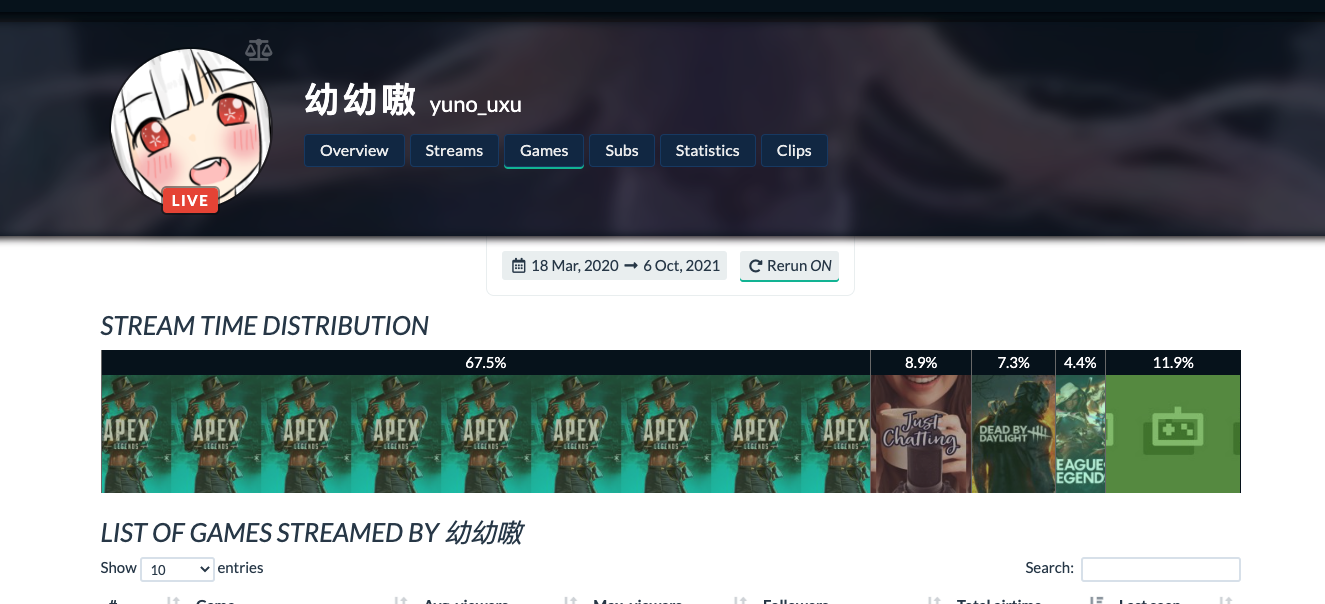
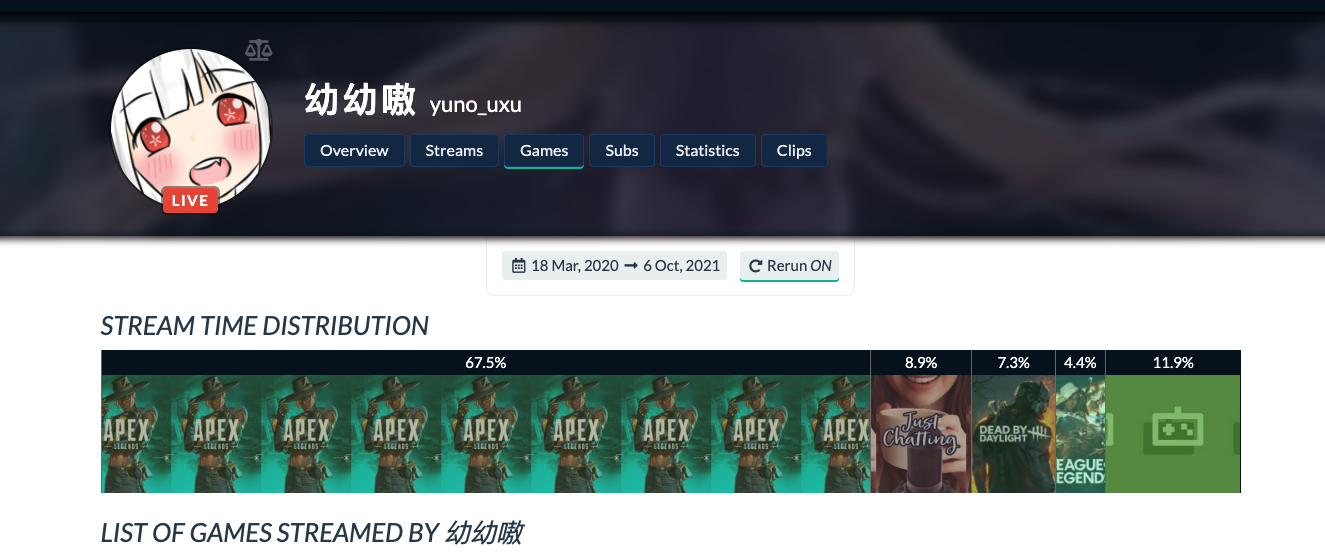
deploy: 38b1acdf7b2c289091549317e7d03bedd877cc3f

diff --git a/posts/yuno_uxu/index.html b/posts/yuno_uxu/index.html
@@ -17,7 +17,7 @@
 <meta name=application-name content="Kr1s的網站">
 <meta name=apple-mobile-web-app-title content="Kr1s的網站"><link rel="shortcut icon" type=image/x-icon href=/favicon.ico>
 <link rel=icon type=image/png sizes=32x32 href=/favicon-32x32.png>
-<link rel=icon type=image/png sizes=16x16 href=/favicon-16x16.png><link rel=apple-touch-icon sizes=180x180 href=/apple-touch-icon.png><link rel=manifest href=/site.webmanifest><link rel=canonical href=https://blog.kris0404.com/posts/yuno_uxu/><link rel=prev href=https://blog.kris0404.com/posts/yunabb/><link rel=next href=https://blog.kris0404.com/posts/nero/><link rel=stylesheet href=/lib/normalize/normalize.min.css><link rel=stylesheet href=/css/style.min.css><link rel=stylesheet href=/lib/fontawesome-free/all.min.css><link rel=stylesheet href=/lib/animate/animate.min.css><script type=application/ld+json>{"@context":"http://schema.org","@type":"BlogPosting","headline":"yuno_uxu","inLanguage":"zh-TW","mainEntityOfPage":{"@type":"WebPage","@id":"https:\/\/blog.kris0404.com\/posts\/yuno_uxu\/"},"image":[{"@type":"ImageObject","url":"https:\/\/blog.kris0404.com\/posts\/yuno_uxu\/yoyo_preview.png","width":1325,"height":604}],"genre":"posts","keywords":"Twitch, 亂源","wordcount":39,"url":"https:\/\/blog.kris0404.com\/posts\/yuno_uxu\/","datePublished":"2021-10-06T11:48:01+08:00","dateModified":"2021-10-06T17:53:39+08:00","publisher":{"@type":"Organization","name":"Kr1s"},"author":{"@type":"Person","name":"Kr1s"},"description":"關於幼幼的各種名言事蹟"}</script></head>
+<link rel=icon type=image/png sizes=16x16 href=/favicon-16x16.png><link rel=apple-touch-icon sizes=180x180 href=/apple-touch-icon.png><link rel=manifest href=/site.webmanifest><link rel=canonical href=https://blog.kris0404.com/posts/yuno_uxu/><link rel=prev href=https://blog.kris0404.com/posts/yunabb/><link rel=next href=https://blog.kris0404.com/posts/nero/><link rel=stylesheet href=/lib/normalize/normalize.min.css><link rel=stylesheet href=/css/style.min.css><link rel=stylesheet href=/lib/fontawesome-free/all.min.css><link rel=stylesheet href=/lib/animate/animate.min.css><script type=application/ld+json>{"@context":"http://schema.org","@type":"BlogPosting","headline":"yuno_uxu","inLanguage":"zh-TW","mainEntityOfPage":{"@type":"WebPage","@id":"https:\/\/blog.kris0404.com\/posts\/yuno_uxu\/"},"image":[{"@type":"ImageObject","url":"https:\/\/blog.kris0404.com\/posts\/yuno_uxu\/yoyo_preview.png","width":1325,"height":554}],"genre":"posts","keywords":"Twitch, 亂源","wordcount":39,"url":"https:\/\/blog.kris0404.com\/posts\/yuno_uxu\/","datePublished":"2021-10-06T11:48:01+08:00","dateModified":"2021-10-06T17:53:39+08:00","publisher":{"@type":"Organization","name":"Kr1s"},"author":{"@type":"Person","name":"Kr1s"},"description":"關於幼幼的各種名言事蹟"}</script></head>
 <body header-desktop header-mobile><script type=text/javascript>(window.localStorage&&localStorage.getItem('theme')?localStorage.getItem('theme')==='dark':'auto'==='auto'?window.matchMedia('(prefers-color-scheme: dark)').matches:'auto'==='dark')&&document.body.setAttribute('theme','dark')</script>
 <div id=mask></div><div class=wrapper><header class=desktop id=header-desktop>
 <div class=header-wrapper>
